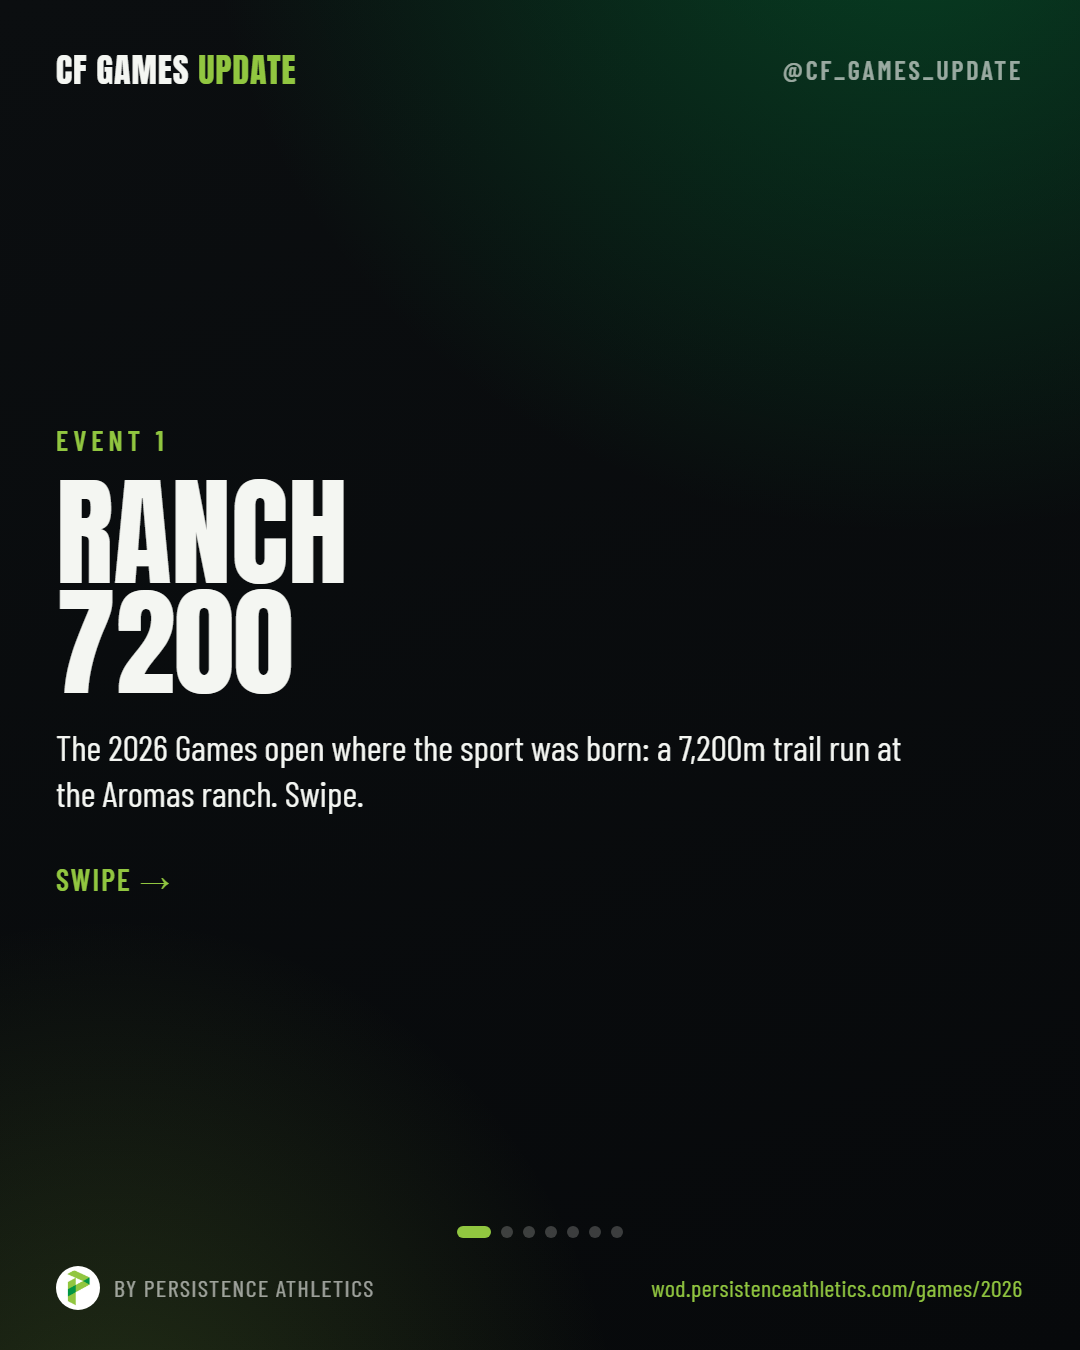
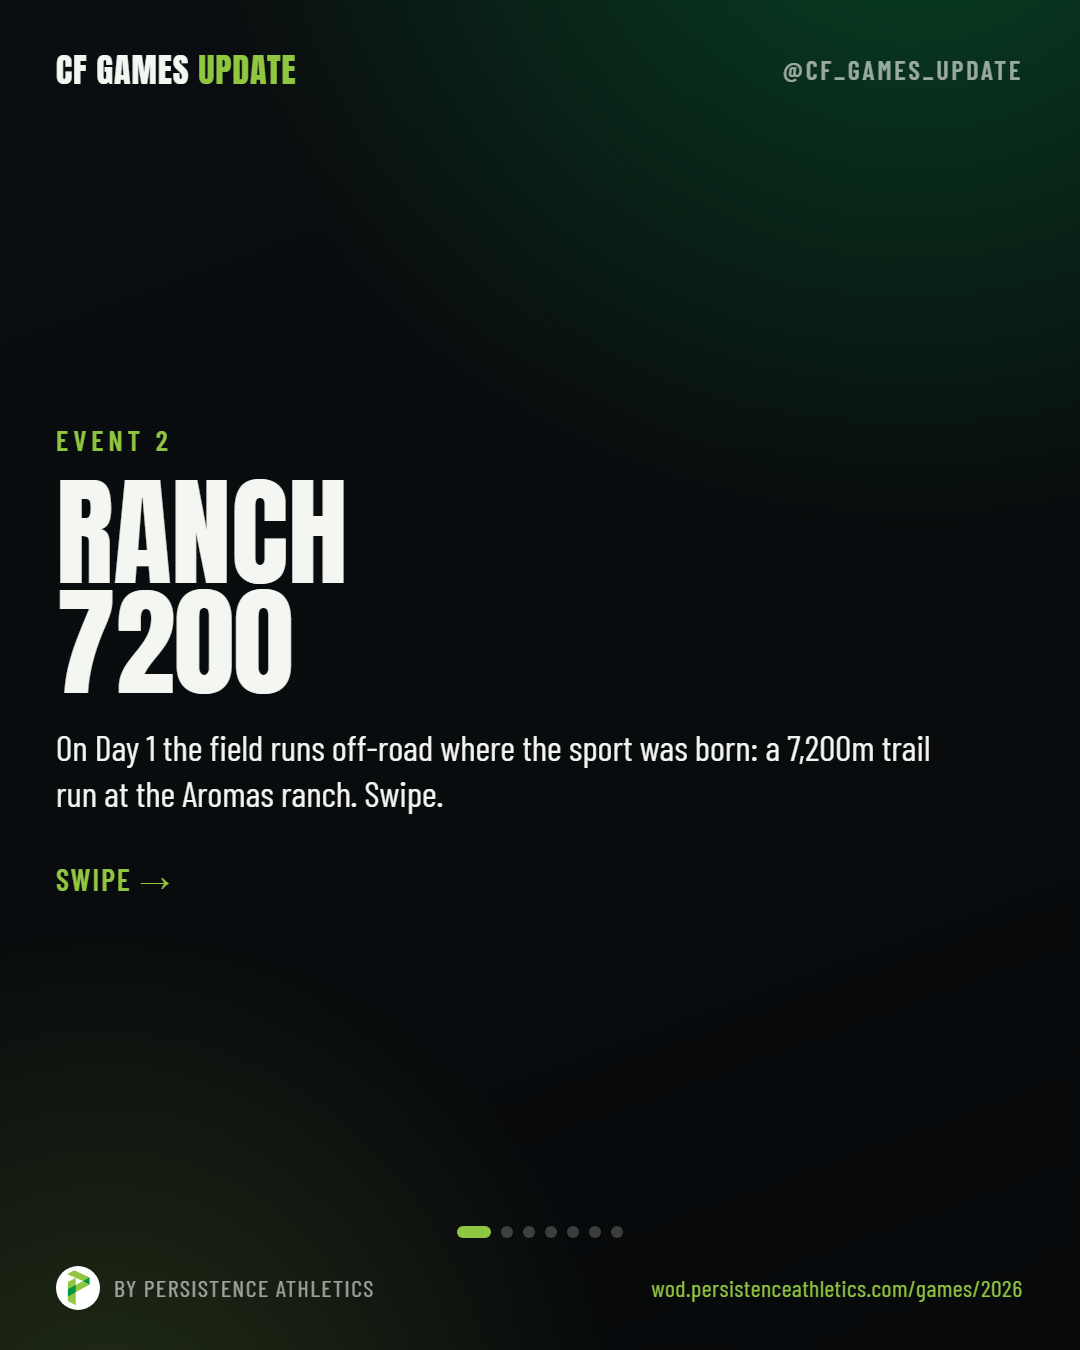
Fix event numbering: Ranch 7200 is Event 2, The 2007 Hopper is Event 1
The official CrossFit Games announcement graphic labels the 7,200m trail run
"Individual Event 2." My earlier commit trusted the workout-page URL slots
(/1 = Ranch 7200), which are reversed from the announced event numbers. Correct
order: Event 1 = The 2007 Hopper (the opener), Event 2 = Ranch 7200. Both Day 1.

Swapped the numbering + copy across events-2026.json, the two Breakdown posts
(and their slugs), and CardStudio picks + carousels. Regenerated all event IG
cards with number-agnostic filenames (carousel-hopper-*, carousel-ranch7200-*)
and dropped the mis-numbered set. Analysis and model reads are unchanged; only
the event labels moved.

Changed region(s): [[0.0306, 0.5289, 0.8556, 0.6222]]

diff --git a/src/games/CardStudio.tsx b/src/games/CardStudio.tsx
@@ -30,9 +30,9 @@ type Pick = { name: string; value: string; why: string }
 type PickSet = { id: string; label: string; eventKicker: string; eventLine: string; note: string; men: Pick[]; women: Pick[] }
 const PICKS: PickSet[] = [
   {
-    id: 'event1-ranch7200',
-    label: 'Event 1 - Ranch 7200',
-    eventKicker: 'Event 1 - Ranch 7200',
+    id: 'event2-ranch7200',
+    label: 'Event 2 - Ranch 7200',
+    eventKicker: 'Event 2 - Ranch 7200',
     eventLine: '7,200-meter trail run at the Aromas ranch. For time. Wednesday, July 22.',
     note: "Score is the model's aerobic-engine read (long engine, monostructural and oxidative percentiles) scaled by power-to-weight, since a run rewards a light frame. A fit read, not a result prediction.",
     men: [
@@ -51,9 +51,9 @@ const PICKS: PickSet[] = [
     ],
   },
   {
-    id: 'event2-hopper',
-    label: 'Event 2 - The 2007 Hopper',
-    eventKicker: 'Event 2 - The 2007 Hopper',
+    id: 'event1-hopper',
+    label: 'Event 1 - The 2007 Hopper',
+    eventKicker: 'Event 1 - The 2007 Hopper',
     eventLine: '1,000m row, then 5 rounds: 25 pull-ups + 7 push jerks (135/85). For time.',
     note: 'Score is the mean placement percentile, the percent of the 60-athlete field beaten, on the domains this workout taxes. A fit read, not a result prediction.',
     men: [
@@ -112,32 +112,32 @@ const CAROUSELS: Carousel[] = [
   },
   {
     id: 'ranch7200-preview',
-    label: 'Event 1 - Ranch 7200',
+    label: 'Event 2 - Ranch 7200',
     caption:
-      "🏔 EVENT 1 = RANCH 7200. The 2026 CrossFit Games OPEN at the birthplace of the sport, the Aromas ranch, with a 7,200-meter trail run. For time.\n\nAbout 4.5 miles of dirt to start the individual competition, Wednesday July 22.\n\nSwipe for the workout, what it demands, and our model's top 5 for men and women, an aerobic-engine read scaled by power-to-weight (a run punishes body mass). A fit read, not a result prediction. Full breakdown at the link in bio.\n\nEvent source: the official CrossFit Games workout page.",
+      "🏔 EVENT 2 = RANCH 7200. On Day 1, the 2026 CrossFit Games send the field off-road at the birthplace of the sport, the Aromas ranch, for a 7,200-meter trail run. For time.\n\nAbout 4.5 miles of dirt, right after the opener.\n\nSwipe for the workout, what it demands, and our model's top 5 for men and women, an aerobic-engine read scaled by power-to-weight (a run punishes body mass). A fit read, not a result prediction. Full breakdown at the link in bio.\n\nEvent source: the official CrossFit Games workout page.",
     slides: [
-      { type: 'cover', kicker: 'Event 1', headline: 'RANCH\n7200', sub: 'The 2026 Games open where the sport was born: a 7,200m trail run at the Aromas ranch. Swipe.' },
-      { type: 'point', num: 1, kicker: 'The Workout', headline: '7,200M\nTRAIL RUN', body: 'A 7,200-meter trail run at the Ranch in Aromas, for time. About 4.5 miles. The opening event of the individual competition, Wednesday July 22, at the off-site venues.', source: 'CrossFit Games (official workout page)' },
+      { type: 'cover', kicker: 'Event 2', headline: 'RANCH\n7200', sub: 'On Day 1 the field runs off-road where the sport was born: a 7,200m trail run at the Aromas ranch. Swipe.' },
+      { type: 'point', num: 1, kicker: 'The Workout', headline: '7,200M\nTRAIL RUN', body: 'A 7,200-meter trail run at the Ranch in Aromas, for time. About 4.5 miles. The second event of the individual competition, Wednesday July 22, at the off-site venues.', source: 'CrossFit Games (official workout page)' },
       { type: 'point', num: 2, kicker: 'What it demands', headline: 'ENGINE +\nLIGHT FRAME', body: 'A pure aerobic test. It rewards a deep engine and a light body to carry it. No barbell, no rig, just running economy over distance, the one event where extra mass is a tax, not an asset.', source: 'Persistence Athletics model' },
       { type: 'point', num: 3, kicker: "Model's top 5 - Men", headline: 'MEN', body: '1. Adler  2. Medeiros  3. Garard  4. Khrennikov  5. Vellner. Adler (72kg) leads on power-to-weight; Khrennikov owns the biggest engine but 97kg drops him to fourth.', source: 'Persistence Athletics model' },
       { type: 'point', num: 4, kicker: "Model's top 5 - Women", headline: 'WOMEN', body: '1. Adams  2. Lawson  3. von Rohr  4. Campbell  5. Brandon. Adams pairs the biggest engine in the field with a 64kg frame, the ideal run build.', source: 'Persistence Athletics model' },
       { type: 'point', num: 5, kicker: 'The history', headline: 'BORN AT\nTHE RANCH', body: 'The Ranch hosted the first three Games (2007-2009) on the Castro family property. A roughly 7km trail run also opened Games competition in 2016. The birthplace and the run, together, on day one.', source: 'CrossFit Games history' },
-      { type: 'cta', headline: 'FULL\nBREAKDOWN', body: 'Every athlete, every number, and the model read on Event 1 is on the site. A fit read, not a result prediction.' },
+      { type: 'cta', headline: 'FULL\nBREAKDOWN', body: 'Every athlete, every number, and the model read on Ranch 7200 is on the site. A fit read, not a result prediction.' },
     ],
   },
   {
-    id: 'event2-preview',
-    label: 'Event 2 - The 2007 Hopper',
+    id: 'event1-preview',
+    label: 'Event 1 - The 2007 Hopper',
     caption:
-      "🚨 EVENT 2 = THE 2007 HOPPER. The second event of the 2026 Games revives the very first event in CrossFit Games history.\n\n1,000m row, then 5 rounds of 25 pull-ups + 7 push jerks (135/85). For time.\n\nSwipe for the workout, what it demands, and our model's top 5 for men and women. It's a model read of who FITS the workout, not a result prediction. Full breakdown at the link in bio.\n\nEvent source: the official CrossFit Games workout page.",
+      "🚨 EVENT 1 = THE 2007 HOPPER. The opening event of the 2026 Games revives the very first event in CrossFit Games history.\n\n1,000m row, then 5 rounds of 25 pull-ups + 7 push jerks (135/85). For time.\n\nSwipe for the workout, what it demands, and our model's top 5 for men and women. It's a model read of who FITS the workout, not a result prediction. Full breakdown at the link in bio.\n\nEvent source: the official CrossFit Games workout page.",
     slides: [
-      { type: 'cover', kicker: 'Event 2', headline: 'THE 2007\nHOPPER', sub: 'The second event of the 2026 Games revives the very first event in Games history. Swipe.' },
+      { type: 'cover', kicker: 'Event 1', headline: 'THE 2007\nHOPPER', sub: 'The opening event of the 2026 Games revives the very first event in Games history. Swipe.' },
       { type: 'point', num: 1, kicker: 'The Workout', headline: 'FOR\nTIME', body: '1,000-meter row, then 5 rounds of: 25 pull-ups and 7 push jerks (135 lb men / 85 lb women). Individual start day, Wednesday July 22.', source: 'CrossFit Games (official workout page)' },
       { type: 'point', num: 2, kicker: 'What it demands', headline: 'ENGINE +\nRIG', body: 'A medium grind: a 1,000m row, then a big pile of pull-ups (125 total) and a light, fast barbell. Aerobic engine and gymnastics stamina decide this one, not raw strength.', source: 'Persistence Athletics model' },
       { type: 'point', num: 3, kicker: "Model's top 5 - Men", headline: 'MEN', body: '1. Khrennikov  2. Medeiros  3. Garard  4. Vellner  5. Sprague. Khrennikov and Medeiros are co-favorites, split by how you weight the light barbell.', source: 'Persistence Athletics model' },
       { type: 'point', num: 4, kicker: "Model's top 5 - Women", headline: 'WOMEN', body: '1. Adams  2. Campbell  3. Lawson  4. von Rohr  5. Brandon. Adams brings the biggest engine in the field; Campbell the best gymnastics.', source: 'Persistence Athletics model' },
       { type: 'point', num: 5, kicker: 'The history', headline: 'BORN AT\nTHE RANCH', body: 'A revival of the opener from the very first CrossFit Games in 2007, held at the Aromas ranch. Fitting, since the original hopper returns this year to draw a workout live.', source: 'CrossFit Games history' },
-      { type: 'cta', headline: 'FULL\nBREAKDOWN', body: 'Every athlete, every number, and the model read on Event 2 is on the site. A fit read, not a result prediction.' },
+      { type: 'cta', headline: 'FULL\nBREAKDOWN', body: 'Every athlete, every number, and the model read on the 2007 Hopper is on the site. A fit read, not a result prediction.' },
     ],
   },
 ]
